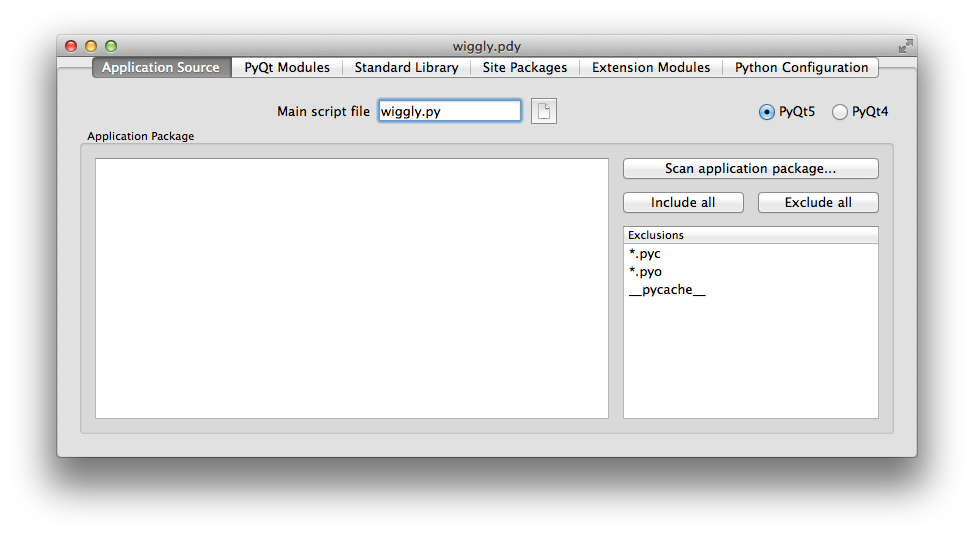
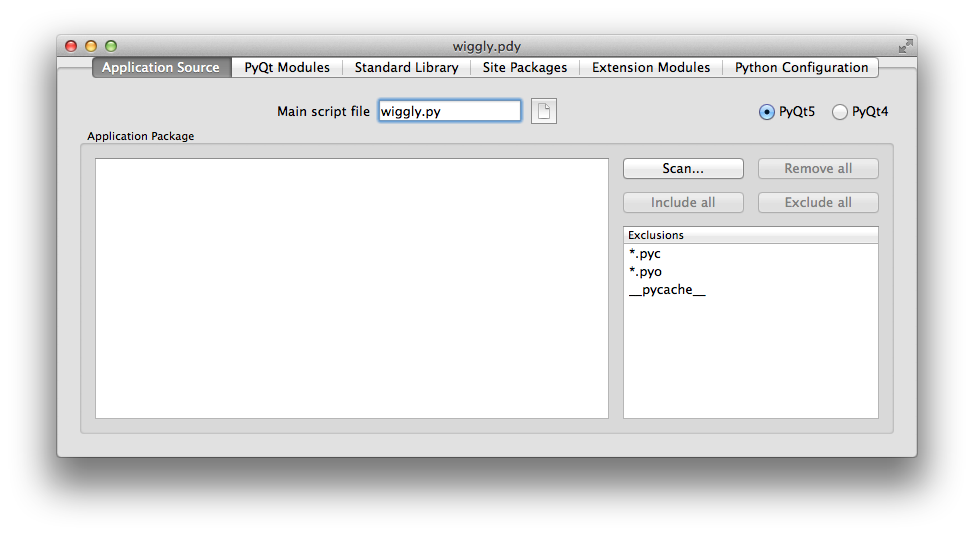
Updated the docs. Renamed the "Clear" button to "Remove all".

Changed region(s): [[0.6776, 0.2985, 0.8932, 0.3284], [0.8008, 0.3582, 0.8932, 0.3881], [0.6468, 0.3582, 0.7392, 0.3881]]

diff --git a/pyqtdeploy/gui/qrc_package_editor.py b/pyqtdeploy/gui/qrc_package_editor.py
@@ -60,9 +60,9 @@ class QrcPackageEditor(QGroupBox):
 
         layout.addWidget(QPushButton(scan, clicked=self._scan), 0, 1)
 
-        self._clear_button = QPushButton("Clear", clicked=self._clear,
-                enabled=False)
-        layout.addWidget(self._clear_button, 0, 2)
+        self._remove_button = QPushButton("Remove all",
+                clicked=self._remove_all, enabled=False)
+        layout.addWidget(self._remove_button, 0, 2)
 
         self._include_button = QPushButton("Include all",
                 clicked=self._include_all, enabled=False)
@@ -173,8 +173,8 @@ class QrcPackageEditor(QGroupBox):
             itm.setCheckState(0, Qt.Unchecked)
             itm.setExpanded(False)
 
-    def _clear(self, _):
-        """ Invoked when the use clicks on the clear button. """
+    def _remove_all(self, _):
+        """ Invoked when the use clicks on the remove all button. """
 
         blocked = self._package_edit.blockSignals(True)
         self._package_edit.clear()
@@ -189,7 +189,7 @@ class QrcPackageEditor(QGroupBox):
 
         enable = (len(list(self._get_items())) != 0)
 
-        self._clear_button.setEnabled(enable)
+        self._remove_button.setEnabled(enable)
         self._include_button.setEnabled(enable)
         self._exclude_button.setEnabled(enable)
 

diff --git a/doc/static_builds.rst b/doc/static_builds.rst
@@ -51,7 +51,7 @@ sip
 To build a static, native version of sip, change to the sip source directory
 and run::
 
-    $ROOT/python/bin/python configure.py --static
+    $ROOT/python/bin/python3 configure.py --static
     make
     make install
 
@@ -62,7 +62,7 @@ PyQt5
 To build a static, native version of PyQt5, change to the PyQt5 source
 directory and run::
 
-    $ROOT/python/bin/python configure.py --static --qmake=$ROOT/qt/bin/qmake --sip=$ROOT/python/bin/sip
+    $ROOT/python/bin/python3 configure.py --static --qmake=$ROOT/qt/bin/qmake --sip=$ROOT/python/bin/sip
     make
     make install
 
@@ -73,7 +73,7 @@ PyQt4
 To build a static, native version of PyQt4, change to the PyQt4 source
 directory and run::
 
-    $ROOT/python/bin/python configure-ng.py --static --qmake=$ROOT/qt/bin/qmake --sip=$ROOT/python/bin/sip
+    $ROOT/python/bin/python3 configure-ng.py --static --qmake=$ROOT/qt/bin/qmake --sip=$ROOT/python/bin/sip
     make
     make install
 
@@ -99,13 +99,13 @@ Assuming you are deploying the same versions of Qt and PyQt that you have
 developed the application with, then the easiest way to obtain the set of
 options is to run::
 
-    python -c "from PyQt5.QtCore import PYQT_CONFIGURATION; print(PYQT_CONFIGURATION['sip_flags'])"
+    python3 -c "from PyQt5.QtCore import PYQT_CONFIGURATION; print(PYQT_CONFIGURATION['sip_flags'])"
 
 To build a static, native version of the Python bindings, change to the
 QScintilla source directory and run::
 
     cd Python
-    $ROOT/python/bin/python configure.py --static --qmake=$ROOT/qt/bin/qmake --sip=$ROOT/python/bin/sip --pyqt=PyQt5 --pyqt-sip-flags="$PYQT_SIP_FLAGS"
+    $ROOT/python/bin/python3 configure.py --static --qmake=$ROOT/qt/bin/qmake --sip=$ROOT/python/bin/sip --pyqt=PyQt5 --pyqt-sip-flags="$PYQT_SIP_FLAGS"
     make
     make install
 
@@ -130,7 +130,7 @@ section describing the building of the QScintilla Python bindings.
 To build a static, native version of the Python bindings, change to the
 PyQtChart source directory and run::
 
-    $ROOT/python/bin/python configure.py --static --qmake=$ROOT/qt/bin/qmake --sip=$ROOT/python/bin/sip --pyqt=PyQt5 --pyqt-sip-flags="$PYQT_SIP_FLAGS"
+    $ROOT/python/bin/python3 configure.py --static --qmake=$ROOT/qt/bin/qmake --sip=$ROOT/python/bin/sip --pyqt=PyQt5 --pyqt-sip-flags="$PYQT_SIP_FLAGS"
     make
     make install
 
@@ -152,6 +152,6 @@ See the section describing the building of the QScintilla Python bindings.
 To build a static, native version of the Python bindings, change to the
 PyQtDataVisualization source directory and run::
 
-    $ROOT/python/bin/python configure.py --static --qmake=$ROOT/qt/bin/qmake --sip=$ROOT/python/bin/sip --pyqt-sip-flags="$PYQT_SIP_FLAGS"
+    $ROOT/python/bin/python3 configure.py --static --qmake=$ROOT/qt/bin/qmake --sip=$ROOT/python/bin/sip --pyqt-sip-flags="$PYQT_SIP_FLAGS"
     make
     make install

diff --git a/doc/tutorial.rst b/doc/tutorial.rst
@@ -53,7 +53,7 @@ The tab for defining the application source is shown below.
 **PyQt4**
     is used to specify that the application is a PyQt4 application.
 
-**Scan application package...**
+**Scan...**
     is clicked to specify the name of the directory containing the Python
     package that (in more typical cases) implements the majority of the
     application.  The hierachy will be scanned for all files and directories
@@ -71,6 +71,9 @@ The tab for defining the application source is shown below.
         approach will also work with deployed applications so long as the file
         is accessed using the :class:`~PyQt5.QtCore.QFile` class (rather than
         the standard Python file access functions).
+
+**Remove all**
+    is clicked to remove all the scanned files and directories.
 
 **Include all**
     is clicked to check all scanned files and directories so that they are
